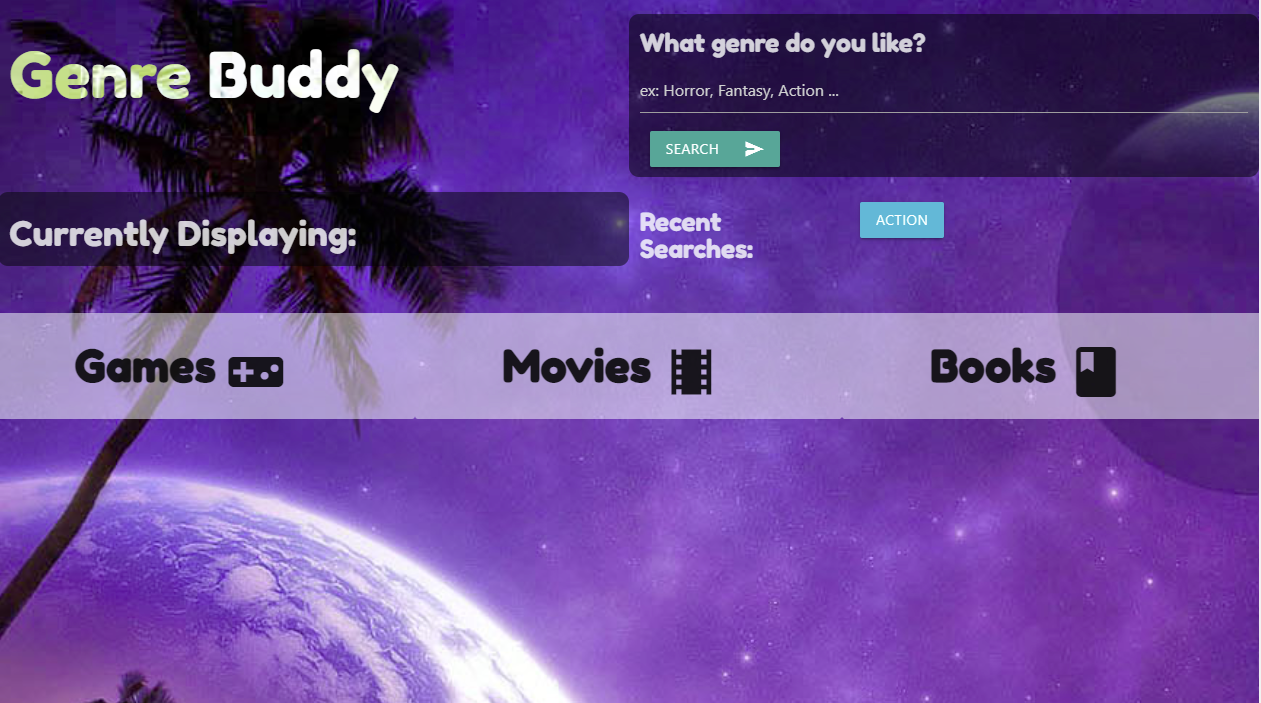
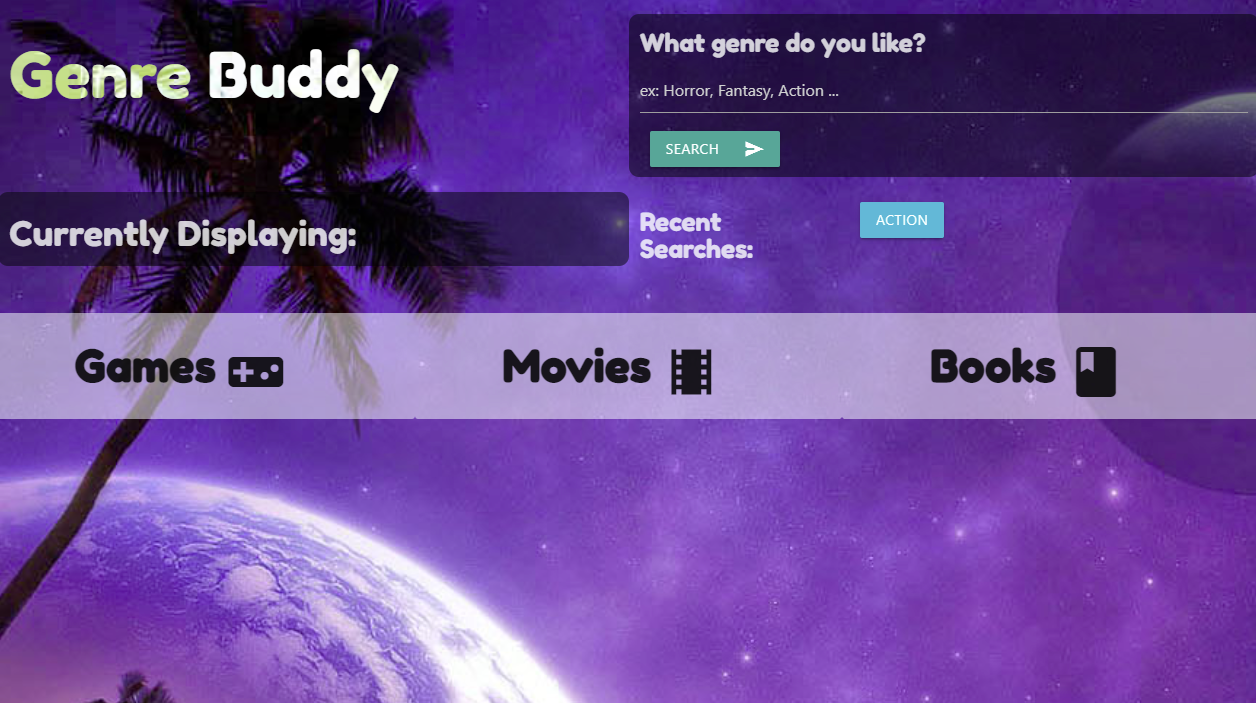
css updates to spacing, and shadows on images

diff --git a/src/index.css b/src/index.css
@@ -192,6 +192,7 @@ textarea {
 .flex-row {
   display: flex;
   flex-wrap: wrap;
+ 
 }
 
 .space-between {
@@ -221,6 +222,7 @@ textarea {
   margin-top: var(--spacing-two);
   margin-bottom: var(--spacing-two);
   border-radius: 70%;
+  filter: drop-shadow(0 0 0.75rem rgb(20, 40, 220));
   
 }
 
@@ -256,9 +258,12 @@ textarea {
 
 .img-thumbnail {
   width: auto;
-  height: 300px;
+  height: 600px;
   margin-bottom: 50px;
+  margin-right: 10px;
   cursor: pointer;
+  /* box-shadow: 4px 4px transparent; */
+  filter: drop-shadow(0 0 0.75rem rgb(20, 40, 220));
 }
 
 .modalBackdrop {
@@ -337,4 +342,9 @@ body::before {
 	50% {
 		filter:hue-rotate(-45deg);
 	}
+}
+@media only screen and (min-width: 1024px) {
+  .container header .header-nav-area #nav_container  {
+    display:flex;
+  }
 }

diff --git a/src/components/Nav/index.js b/src/components/Nav/index.js
@@ -23,17 +23,17 @@ function Nav() {
     <ul className="flex-row">
       <li className="mx-2">
         <a href="#about">
-          About me
+          About me |
         </a>
       </li>
       <li>
         <a href="#Gallery">
-          My Work
+          My Work |
           </a>
       </li>
       <li>
       <a href="#contact">
-          Contact Me
+          Contact Me |
         </a>
        
       </li>

diff --git a/src/components/contact/index.js b/src/components/contact/index.js
@@ -3,7 +3,7 @@ import React from 'react';
 function contact() {
   return (
     <section className="my-5">
-      <h1 id="about">Contact Me</h1>
+      <h1 id="contact">Contact Me</h1>
       <a href="https://github.com/SamRebilas">GitHub</a>
       <br/>
       <a href="https://www.linkedin.com/in/sam-rebilas-a570711a1/">Linkdin</a>

diff --git a/src/components/Gallery/index.js b/src/components/Gallery/index.js
@@ -12,7 +12,7 @@ function Gallery(props) {
   };
   return (
     <section>
-      <h1>{capitalizeFirstLetter}</h1>
+      <h1 id="Gallery">{capitalizeFirstLetter}</h1>
       <p></p>
       <div className="flex-row">
       <a href="https://maxbransontaylor.github.io/genre-buddy/">GenreBuddy</a>
